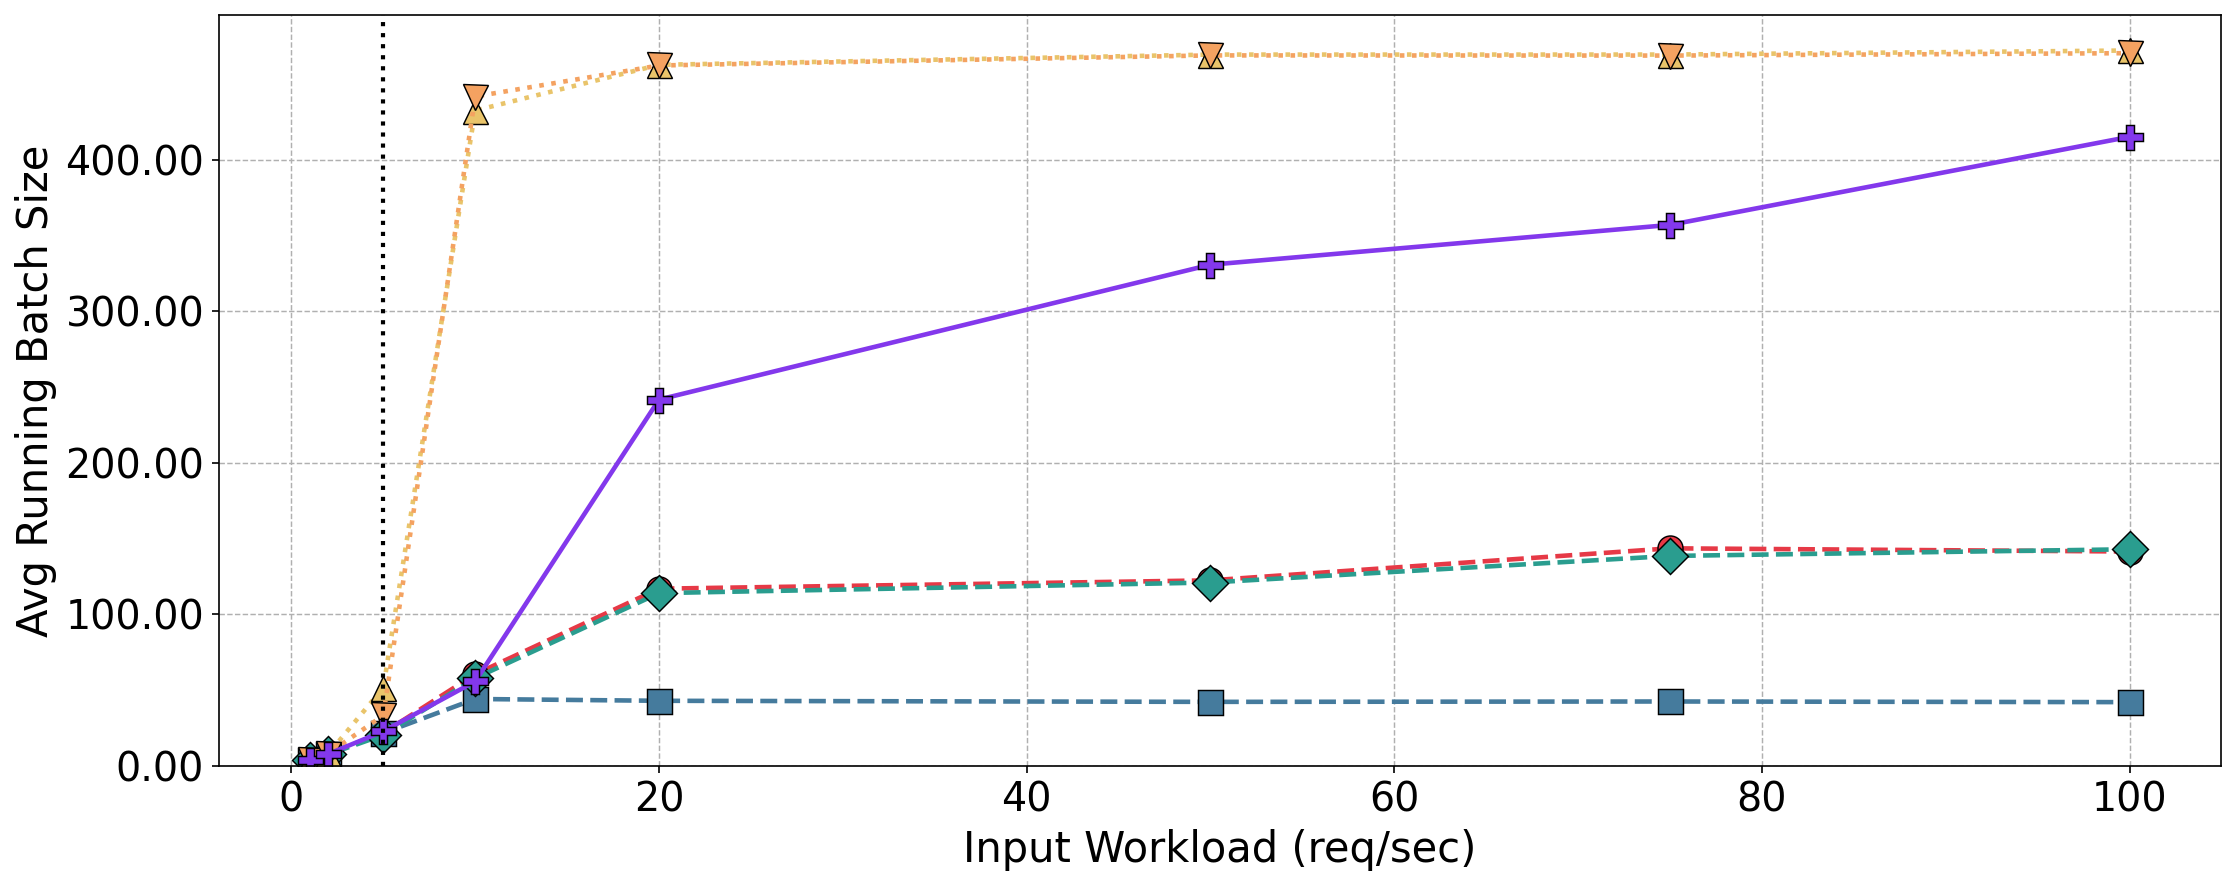
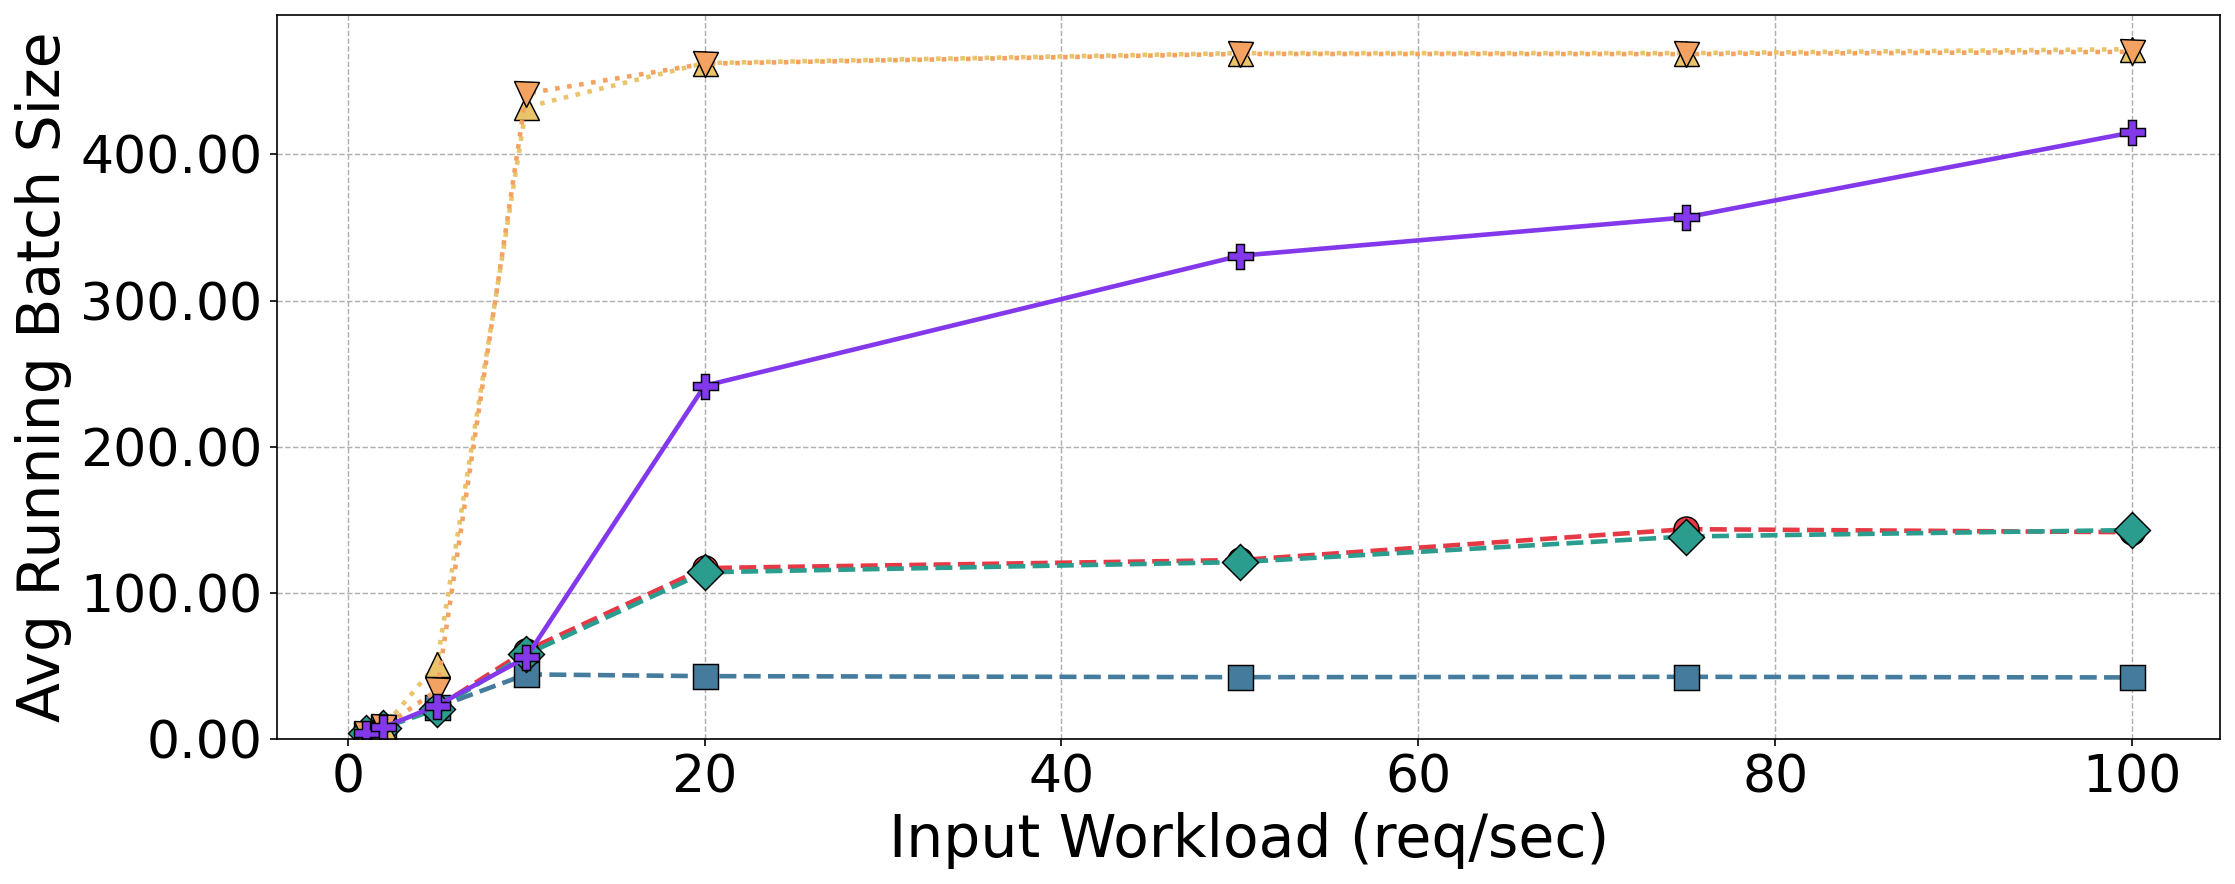
req-plots

diff --git a/code/vllm/req_per_sec_logs/plot.py b/code/vllm/req_per_sec_logs/plot.py
@@ -191,16 +191,16 @@ def make_plot(metric_key, ylabel, title, outpath):
                 label=label
             )
 
-    ax.set_xlabel("Input Workload (req/sec)", fontsize=20)
-    ax.set_ylabel(ylabel, fontsize=20)
+    ax.set_xlabel("Input Workload (req/sec)", fontsize=28)
+    ax.set_ylabel(ylabel, fontsize=28)
 
-    ax.tick_params(axis="both", labelsize=19)
+    ax.tick_params(axis="both", labelsize=25)
 
     ax.yaxis.set_major_formatter(ticker.FormatStrFormatter('%.2f'))
 
     if metric_key == "throughput":
         ax.legend(
-            fontsize=16,
+            fontsize=20,
             framealpha=0.3,
             loc="center right",
             ncol=2
@@ -208,7 +208,20 @@ def make_plot(metric_key, ylabel, title, outpath):
 
     ax.grid(True, linewidth=0.7, linestyle="--")
     ax.set_ylim(bottom=0)
-    ax.axvline(x=5, color='black', linestyle=':', linewidth=2)
+
+    if metric_key == "throughput":
+        ax.axvline(x=5, color='black', linestyle=':', linewidth=2)
+        ax.annotate(
+            "Homogeneity starts here",
+            xy=(5, ax.get_ylim()[1] * 0.85),
+            xytext=(9, ax.get_ylim()[1] * 0.85),
+            fontsize=18,
+            color='black',
+            arrowprops=dict(arrowstyle="->", color='black', lw=1.8),
+            ha='left',
+            va='center'
+        )
+
     plt.tight_layout()
 
     fig.savefig(
